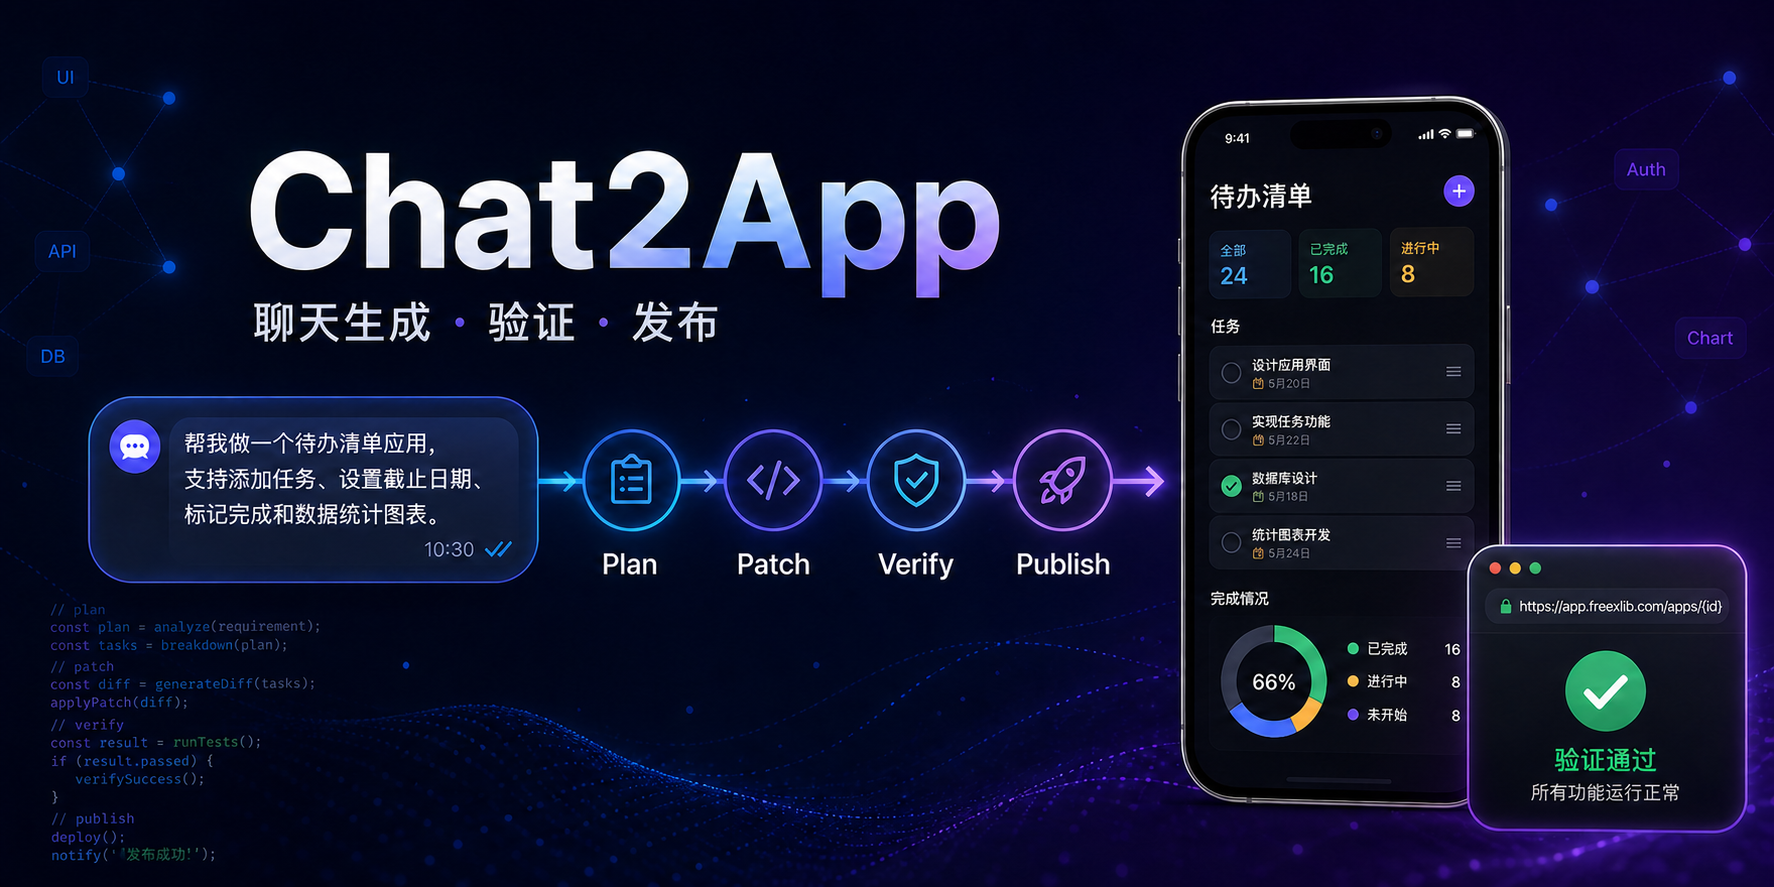
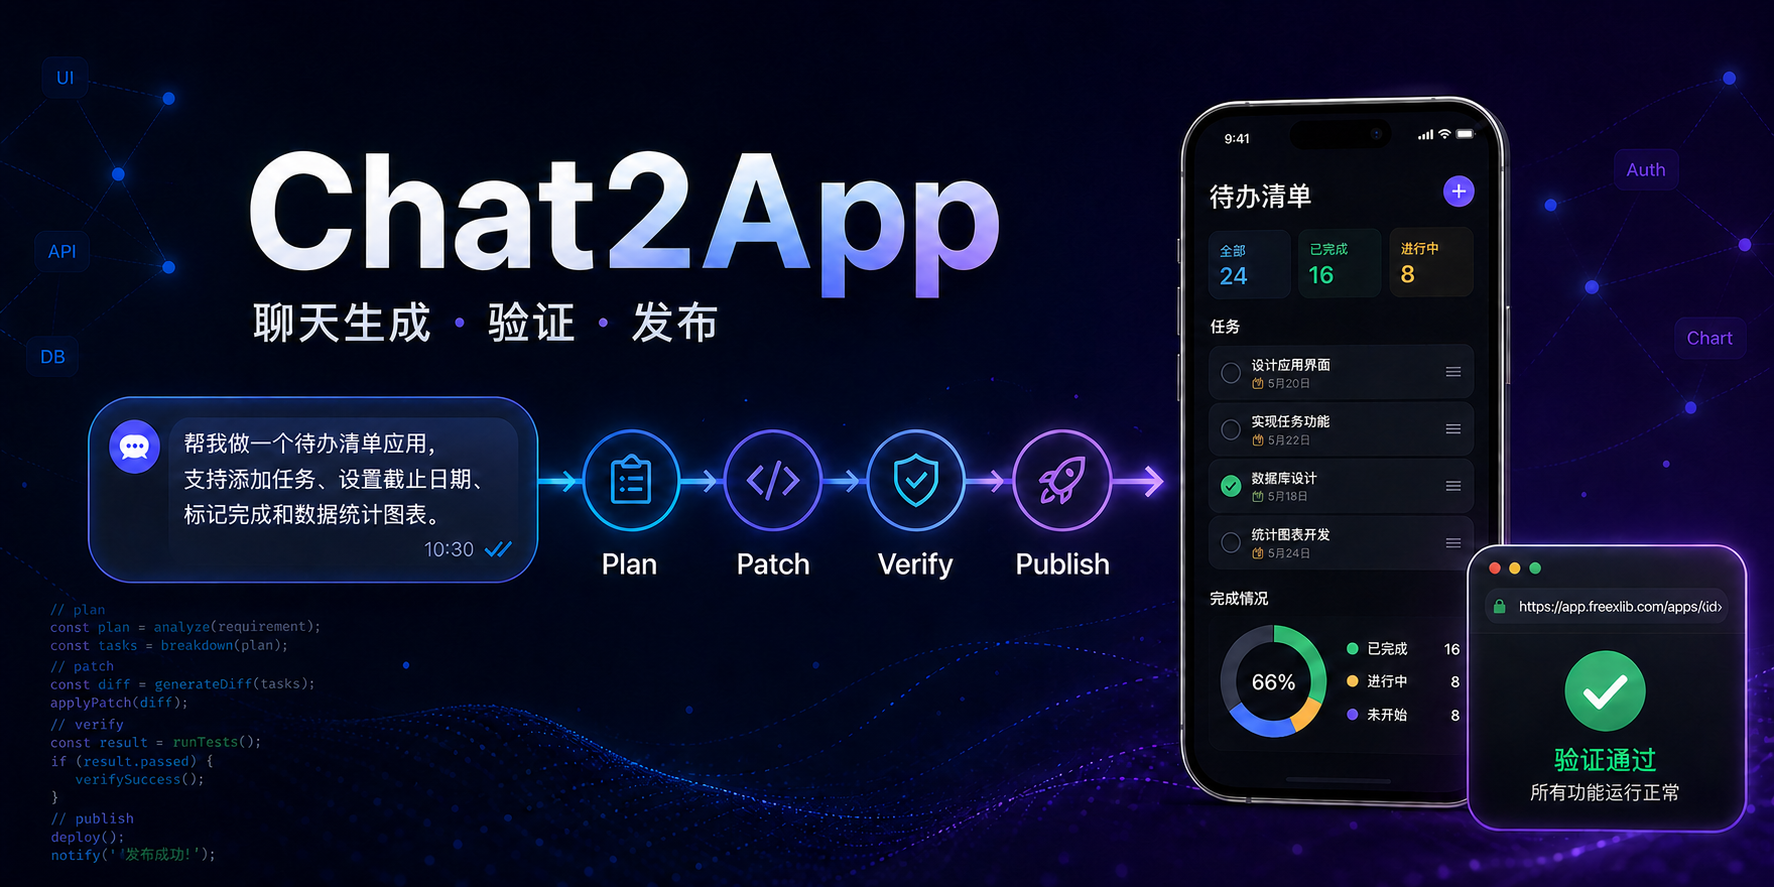
docs: standardize app URL placeholder format

diff --git a/README.md b/README.md
@@ -4,7 +4,7 @@
 
 当前演进状态、Aider / Bolt.diy 借鉴、生产验收和后续计划见：[项目进展与演进路线](docs/PROJECT_STATUS.md)。
 
-移动端聊天 → DeepSeek 流式生成单文件 PWA → 自动发布到 `https://app.freexlib.com/apps/{id}/`，
+移动端聊天 → DeepSeek 流式生成单文件 PWA → 自动发布到 `https://app.freexlib.com/apps/<id>/`，
 **任何人拿到链接都能立即打开**，手机/桌面浏览器可"安装为应用"。
 
 运行时不需要 npm 依赖，构建阶段使用 TypeScript；Node 18+（自带 fetch）。对标 WorkBuddy 的"聊天生成子应用"能力，
@@ -126,7 +126,7 @@ systemctl reload nginx
 ## 验证
 
 - `curl https://app.freexlib.com/api/health` → `{"ok":true,...}`
-- 打开 `https://app.freexlib.com/apps/{id}/` 就是生成的小应用，无需口令，任何人可访问。
+- 打开 `https://app.freexlib.com/apps/<id>/` 就是生成的小应用，无需口令，任何人可访问。
 
 ## 结构
 
